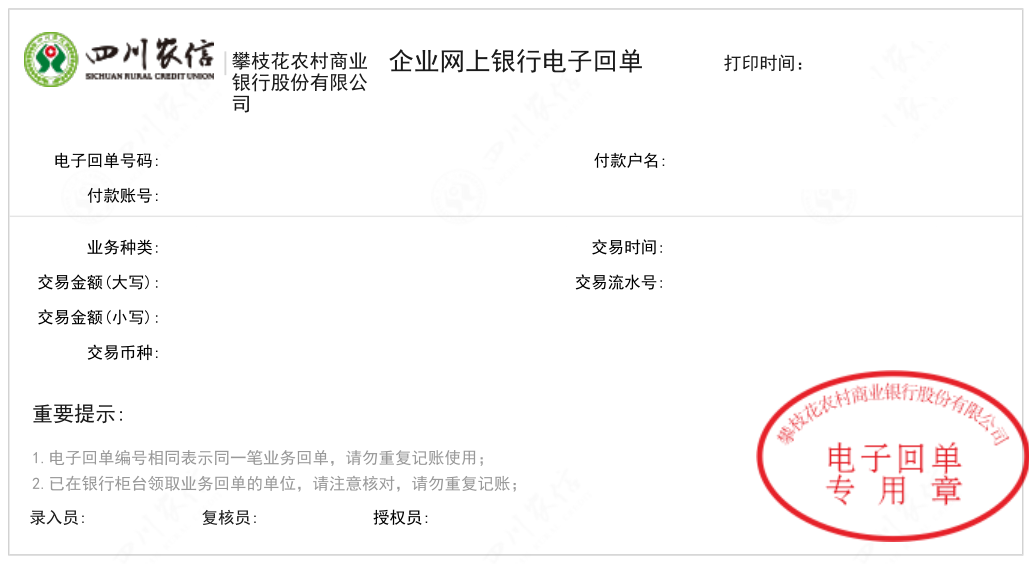
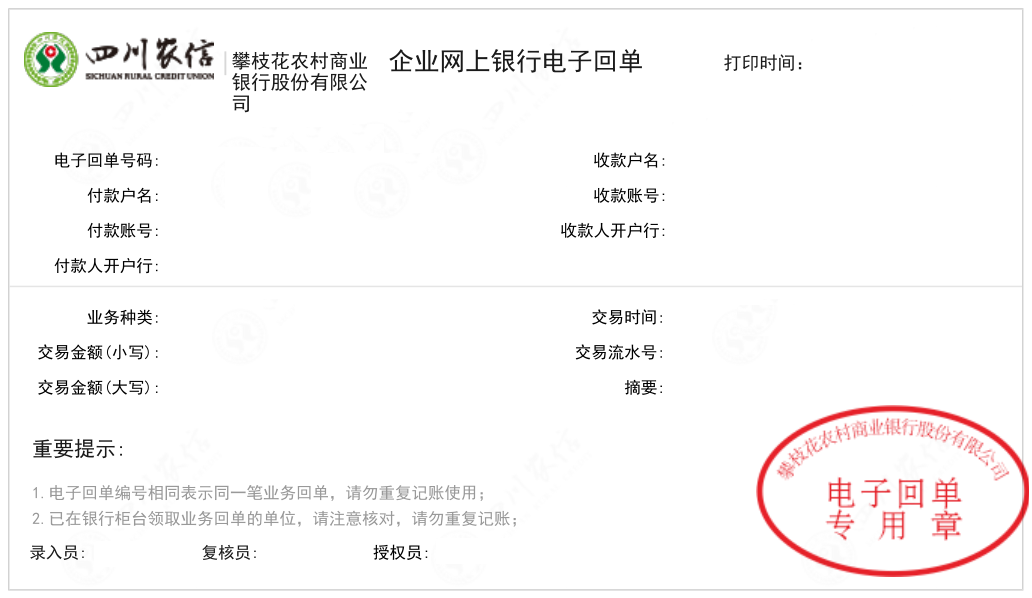
优化回单解析公共组件。

diff --git a/personal_tool/file_tool/文件解析工具/feature/pdf_parser/parse_receipt/parser/农村商业银行-四川/receipt_types/SCRCB_receipt_type_01.py b/personal_tool/file_tool/文件解析工具/feature/pdf_parser/parse_receipt/parser/农村商业银行-四川/receipt_types/SCRCB_receipt_type_01.py
@@ -26,11 +26,15 @@ class SCRCBReceiptType01(SCRCBReceiptType):
         receipt.serial_number = self._get_word("^交易流水号[:：](.*?)$")  # 流水号
         receipt.payer_account_name = self._get_word("^(付款户名|户名)[:：](.*?)$")  # 付款人户名
         receipt.payer_account_number = self._get_word("^(付款账号|交易账号|扣费账号)[:：](.*?)$")  # 付款人账号
-        receipt.payer_account_bank = "攀枝花农村商业银行股份有限公司"  # 付款人开户银行
-        receipt.payee_account_name = self._get_word("^对方户名[:：](.*?)$")  # 收款人户名
-        receipt.payee_account_number = self._get_word("^对方账号[:：](.*?)$")  # 收款人账号
-        receipt.payee_account_bank = "攀枝花农村商业银行股份有限公司"  # 收款人开户银行
-        receipt.amount = NumberUtil.to_amount(self._get_word("^交易金额[(（]小写[)）][:：](.*?)$"))  # 金额
+        # 付款人开户银行
+        payer_account_bank = self._get_word("^付款人开户行[:：](.*?)$")
+        receipt.payer_account_bank = payer_account_bank if payer_account_bank else "攀枝花农村商业银行股份有限公司"
+        receipt.payee_account_name = self._get_word("^(对方户名|收款户名)[:：](.*?)$")  # 收款人户名
+        receipt.payee_account_number = self._get_word("^(对方账号|收款账号)[:：](.*?)$")  # 收款人账号
+        # 收款人开户银行
+        payee_account_bank = self._get_word("^收款人开户行[:：](.*?)$")
+        receipt.payee_account_bank = payee_account_bank if payee_account_bank else "攀枝花农村商业银行股份有限公司"
+        receipt.amount = NumberUtil.to_amount(self._get_word("^(交易金额[(（]小写[)）]|利息)[:：](.*?)$"))  # 金额
         receipt.abstract = self._get_word("^摘要[:：](.*?)$")  # 摘要
         receipt.image = self.image  # 图片
         return receipt

diff --git a/common_util/file_util/pdf_util/pdf_utils/process_pdf_profile.py b/common_util/file_util/pdf_util/pdf_utils/process_pdf_profile.py
@@ -26,8 +26,8 @@ class ProcessPdfProfile:
         for word in words:
             word_search = pattern.search(word.text)
             if word_search:
-                all_search = [each for each in re.findall(f"[(].*?[)]", pattern.pattern) if
-                              not re.search("\[\(|\[\)|\(\[|\)\[", each)]
+                pattern_str = re.sub("\[\(|\[\)|\[（|\[）|\(]|\)]|（]|）]","", pattern.pattern)
+                all_search = [each for each in re.findall(f"[(].*?[)]", pattern_str)]
                 index = (all_search.index("(.*?)") + 1) if "(.*?)" in all_search else 0
                 word_texts.append(word_search.group(index))
         return word_texts

diff --git a/test/personal_tool/file_tool/文件解析工具/feature/pdf_parser/parse_pdf_test.py b/test/personal_tool/file_tool/文件解析工具/feature/pdf_parser/parse_pdf_test.py
@@ -30,7 +30,7 @@ class ParsePdfTestCase(TestBase):
     def test_parse_receipt(self):
         for receipt_path in self.__get_pdf_path(self.receipt_path.joinpath(r"")):
             parser = ParsePdf.parse_receipt(receipt_path)
-            for receipt in parser.receipts:
+            for index, receipt in enumerate(parser.receipts):
                 # image_path = f"E:\\{receipt}.png"
                 # import os
                 # if not os.path.exists(image_path):
